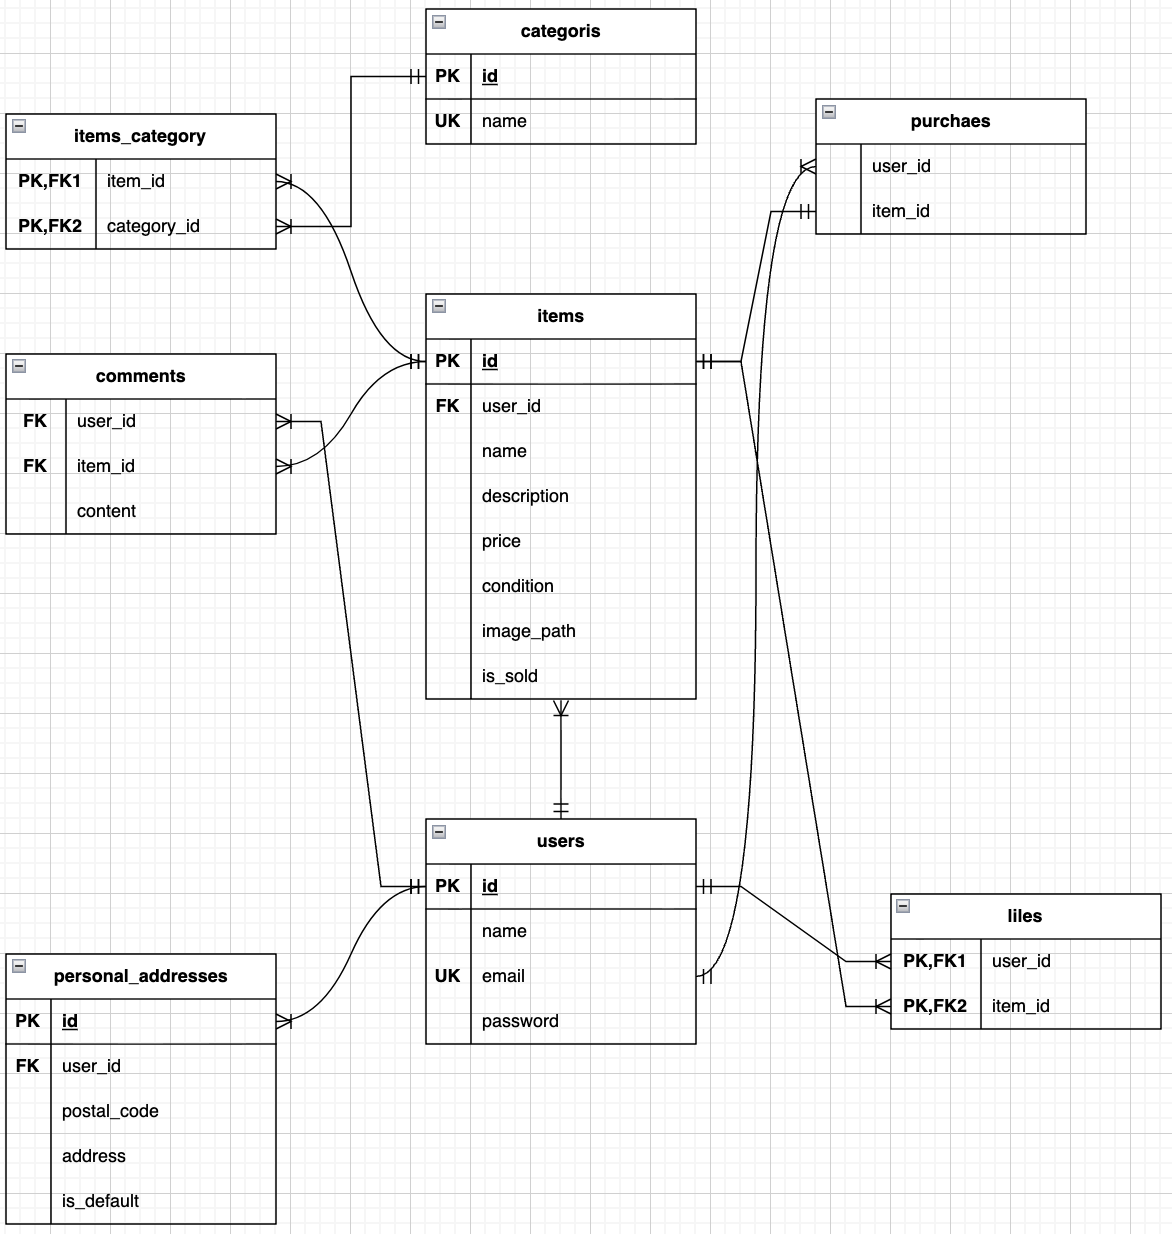
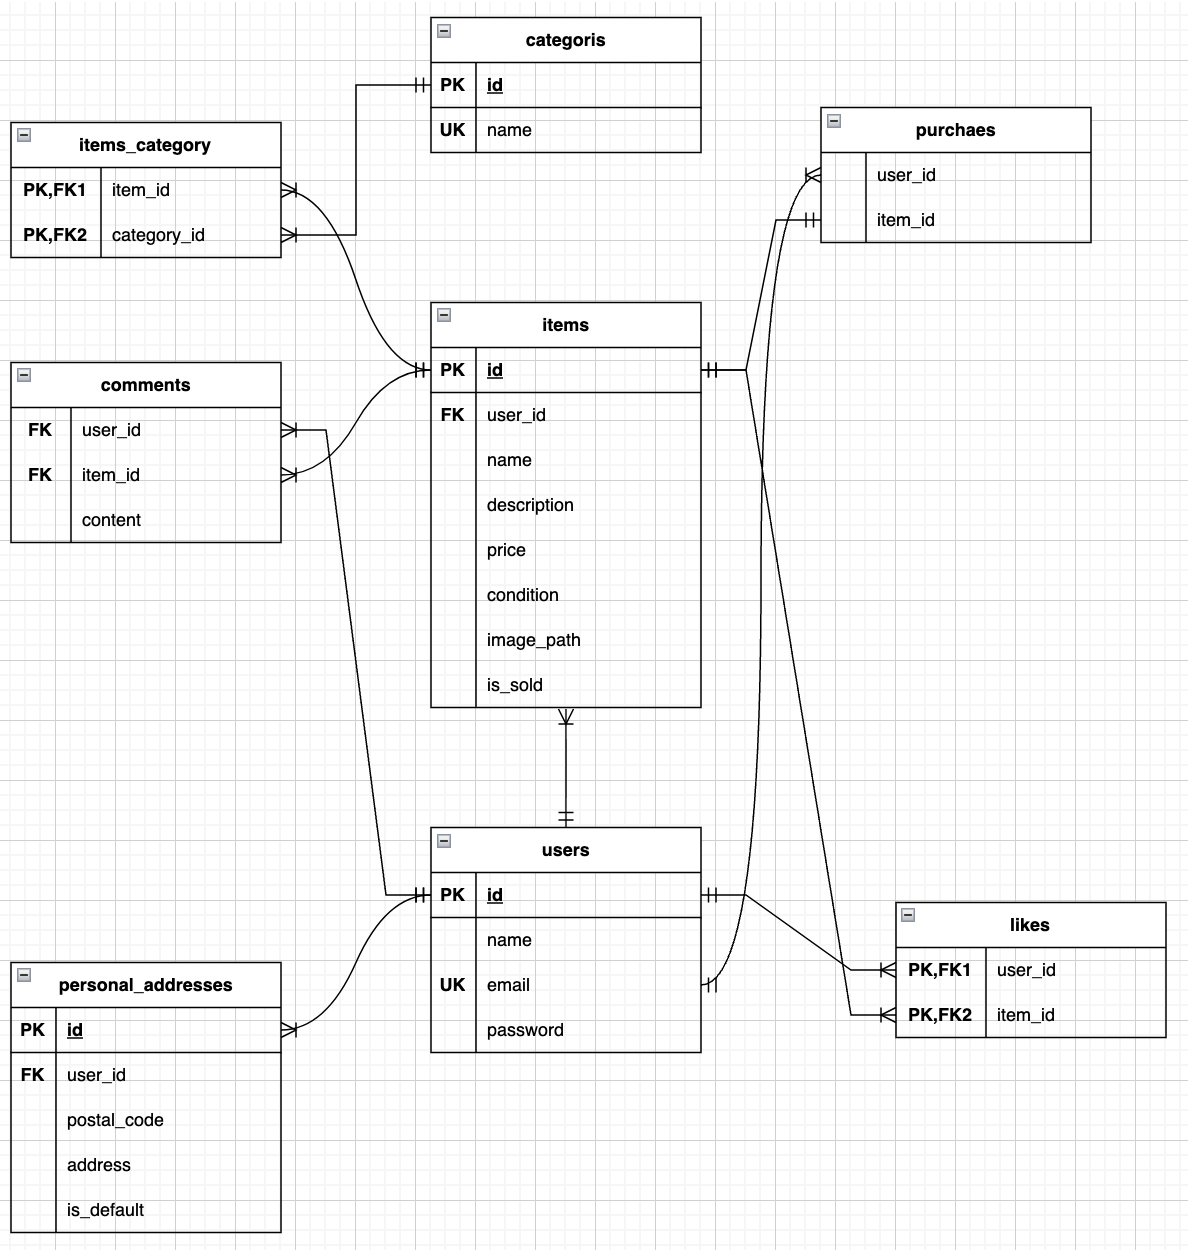
Building based on design documents

diff --git a/app/Models/User.php b/app/Models/User.php
@@ -6,11 +6,13 @@ namespace App\Models;
 use Illuminate\Database\Eloquent\Factories\HasFactory;
 use Illuminate\Foundation\Auth\User as Authenticatable;
 use Illuminate\Notifications\Notifiable;
+use Laravel\Fortify\TwoFactorAuthenticatable;
+use Laravel\Sanctum\HasApiTokens;
 
 class User extends Authenticatable
 {
     /** @use HasFactory<\Database\Factories\UserFactory> */
-    use HasFactory, Notifiable;
+    use HasApiTokens, HasFactory, Notifiable, TwoFactorAuthenticatable;
 
     /**
      * The attributes that are mass assignable.
@@ -31,6 +33,8 @@ class User extends Authenticatable
     protected $hidden = [
         'password',
         'remember_token',
+        'two_factor_secret',
+        'two_factor_recovery_codes',
     ];
 
     /**
@@ -45,4 +49,30 @@ class User extends Authenticatable
             'password' => 'hashed',
         ];
     }
+
+    public function items()
+    {
+        return $this->hasMany(\App\Models\Item::class);
+    }
+
+    public function likes()
+    {
+        return $this->belongsToMany(\App\Models\Item::class, 'likes', 'user_id', 'item_id');
+    }
+
+    public function comments()
+    {
+        return $this->hasMany(\App\Models\Comment::class);
+    }
+
+    public function purchases()
+    {
+        return $this->hasMany(\App\Models\Purchase::class);
+    }
+
+    public function address()
+    {
+        return $this->hasOne(\App\Models\PersonalAddress::class);
+    }
+
 }

diff --git a/app/Models/Item.php b/app/Models/Item.php
@@ -1,0 +1,46 @@
+<?php
+
+namespace App\Models;
+
+use Illuminate\Database\Eloquent\Factories\HasFactory;
+use Illuminate\Database\Eloquent\Model;
+
+class Item extends Model
+{
+    use HasFactory;
+
+    protected $fillable = [
+        'user_id',
+        'name',
+        'description',
+        'price',
+        'condition',
+        'image_path',
+        'is_sold',
+    ];
+
+    public function user()
+    {
+        return $this->belongsTo(User::class);
+    }
+
+    public function categories()
+    {
+        return $this->belongsToMany(Category::class, 'category_item', 'item_id', 'category_id');
+    }
+
+    public function likedUsers()
+    {
+        return $this->belongsToMany(User::class, 'likes', 'item_id', 'user_id');
+    }
+
+    public function comments()
+    {
+        return $this->hasMany(Comment::class);
+    }
+
+    public function purchase()
+    {
+        return $this->hasOne(Purchase::class);
+    }
+}

diff --git a/app/Models/Purchase.php b/app/Models/Purchase.php
@@ -1,0 +1,27 @@
+<?php
+
+namespace App\Models;
+
+use Illuminate\Database\Eloquent\Factories\HasFactory;
+use Illuminate\Database\Eloquent\Model;
+
+class Purchase extends Model
+{
+    use HasFactory;
+
+    protected $fillable = [
+        'user_id',
+        'item_id',
+        'payment_method',
+    ];
+
+    public function user()
+    {
+        return $this->belongsTo(User::class);
+    }
+
+    public function item()
+    {
+        return $this->belongsTo(Item::class);
+    }
+}

diff --git a/app/Models/Comment.php b/app/Models/Comment.php
@@ -1,0 +1,27 @@
+<?php
+
+namespace App\Models;
+
+use Illuminate\Database\Eloquent\Factories\HasFactory;
+use Illuminate\Database\Eloquent\Model;
+
+class Comment extends Model
+{
+    use HasFactory;
+
+    protected $fillable = [
+        'user_id',
+        'item_id',
+        'content',
+    ];
+
+    public function user()
+    {
+        return $this->belongsTo(User::class);
+    }
+
+    public function item()
+    {
+        return $this->belongsTo(Item::class);
+    }
+}

diff --git a/app/Models/PersonalAddress.php b/app/Models/PersonalAddress.php
@@ -1,0 +1,23 @@
+<?php
+
+namespace App\Models;
+
+use Illuminate\Database\Eloquent\Factories\HasFactory;
+use Illuminate\Database\Eloquent\Model;
+
+class PersonalAddress extends Model
+{
+    use HasFactory;
+
+    protected $fillable = [
+        'user_id',
+        'postal_code',
+        'address',
+        'building_name',
+    ];
+
+    public function user()
+    {
+        return $this->belongsTo(User::class);
+    }
+}

diff --git a/app/Models/Category.php b/app/Models/Category.php
@@ -1,0 +1,18 @@
+<?php
+
+namespace App\Models;
+
+use Illuminate\Database\Eloquent\Factories\HasFactory;
+use Illuminate\Database\Eloquent\Model;
+
+class Category extends Model
+{
+    use HasFactory;
+
+    protected $fillable = ['name'];
+
+    public function items()
+    {
+        return $this->belongsToMany(Item::class, 'category_item', 'category_id', 'item_id');
+    }
+}

diff --git a/app/Models/CategoryItem.php b/app/Models/CategoryItem.php
@@ -1,0 +1,10 @@
+<?php
+
+namespace App\Models;
+
+use Illuminate\Database\Eloquent\Model;
+
+class CategoryItem extends Model
+{
+    //
+}

diff --git a/app/Models/Like.php b/app/Models/Like.php
@@ -1,0 +1,10 @@
+<?php
+
+namespace App\Models;
+
+use Illuminate\Database\Eloquent\Model;
+
+class Like extends Model
+{
+    //
+}
